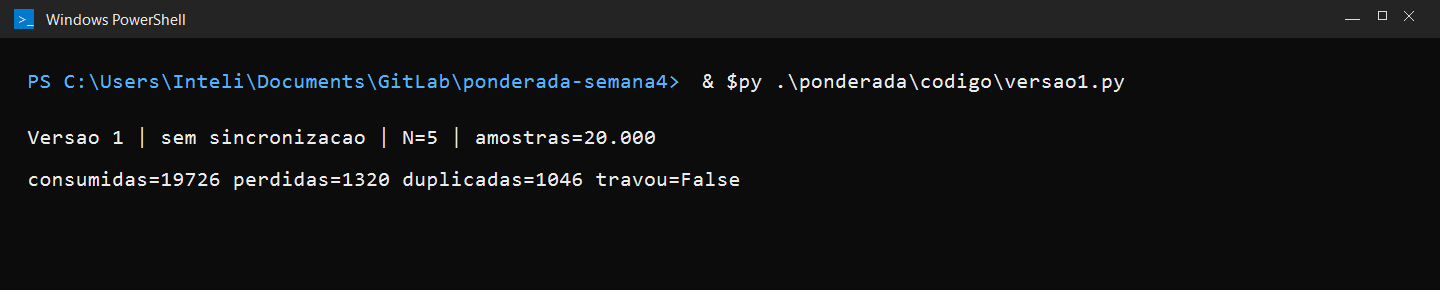
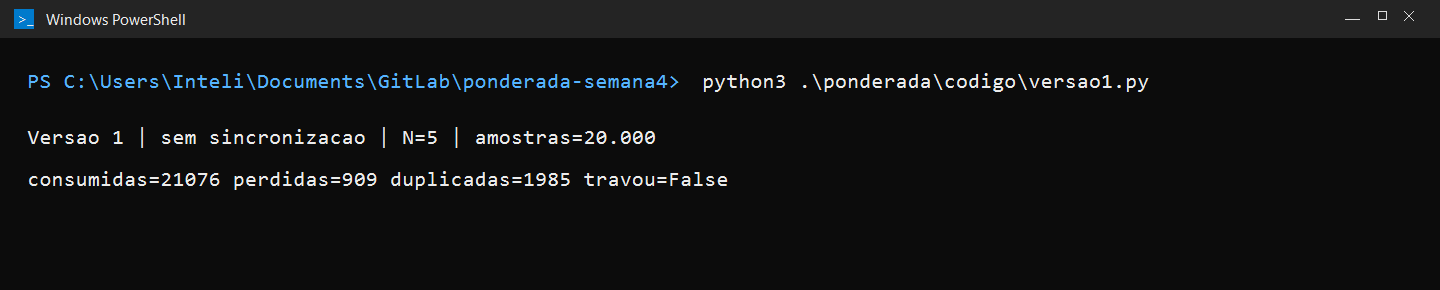
Atualiza resultados das execuções e corrige tabela no ponderada-tato.md

Changed region(s): [[0.4688, 0.2483, 0.8125, 0.3103], [0.2188, 0.5897, 0.5312, 0.6517], [0.0938, 0.5897, 0.1562, 0.6517]]

diff --git a/ponderada/ponderada-tato.md b/ponderada/ponderada-tato.md
@@ -138,7 +138,7 @@ O N utilizado é 5. Cada execução processa 20.000 IDs, de 0 a 19.999. A perda 
 
 | Versão | Execução | Consumidas | Perdidas | Duplicadas | Travou |
 |---|---:|---:|---:|---:|---|
-| 1, sem sincronização | 1 | 19.726 | 1.320 | 1.046 | Não |
+| 1, sem sincronização | 1 | 21.076 | 909 | 1.985 | Não |
 | 1, sem sincronização | 2 | 20.300 | 991 | 1.291 | Não |
 | 1, sem sincronização | 3 | 19.637 | 829 | 466 | Não |
 | 2, semáforos na ordem segura | 1 | 20.000 | 0 | 0 | Não |
